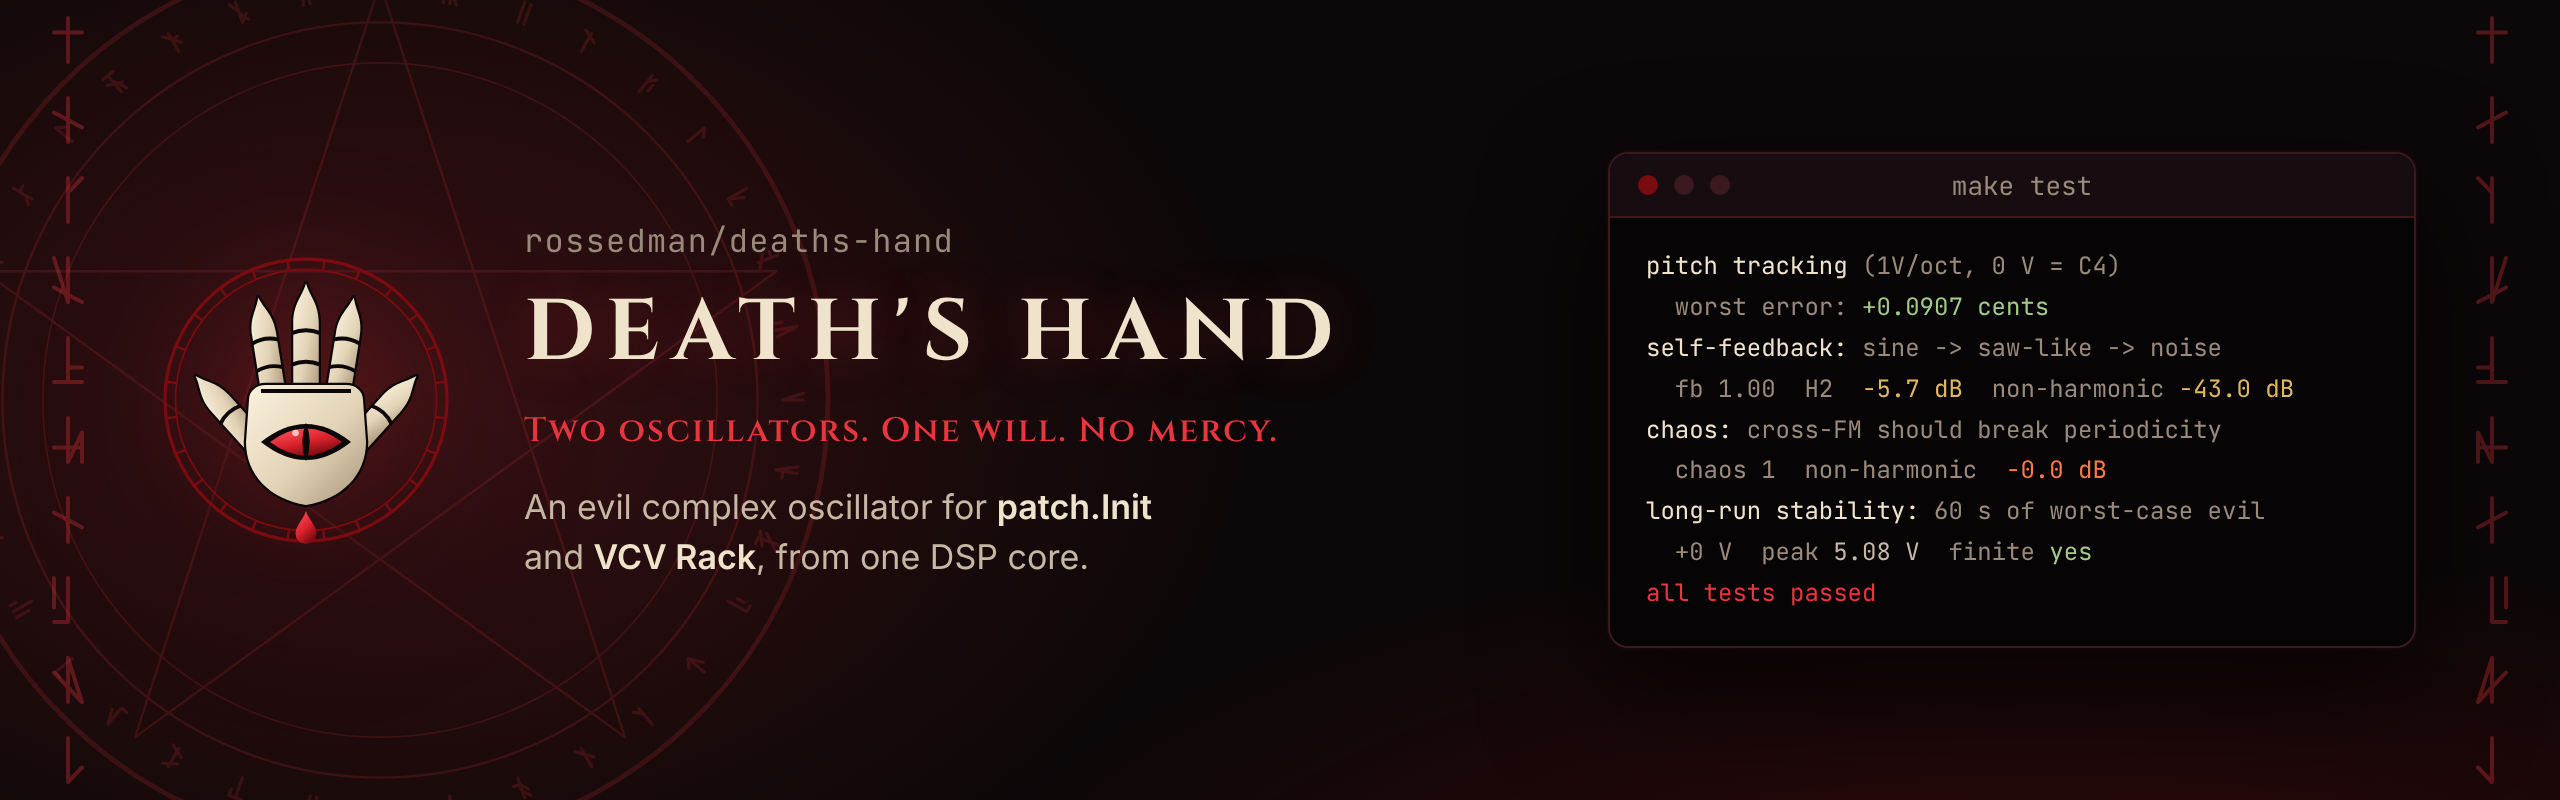
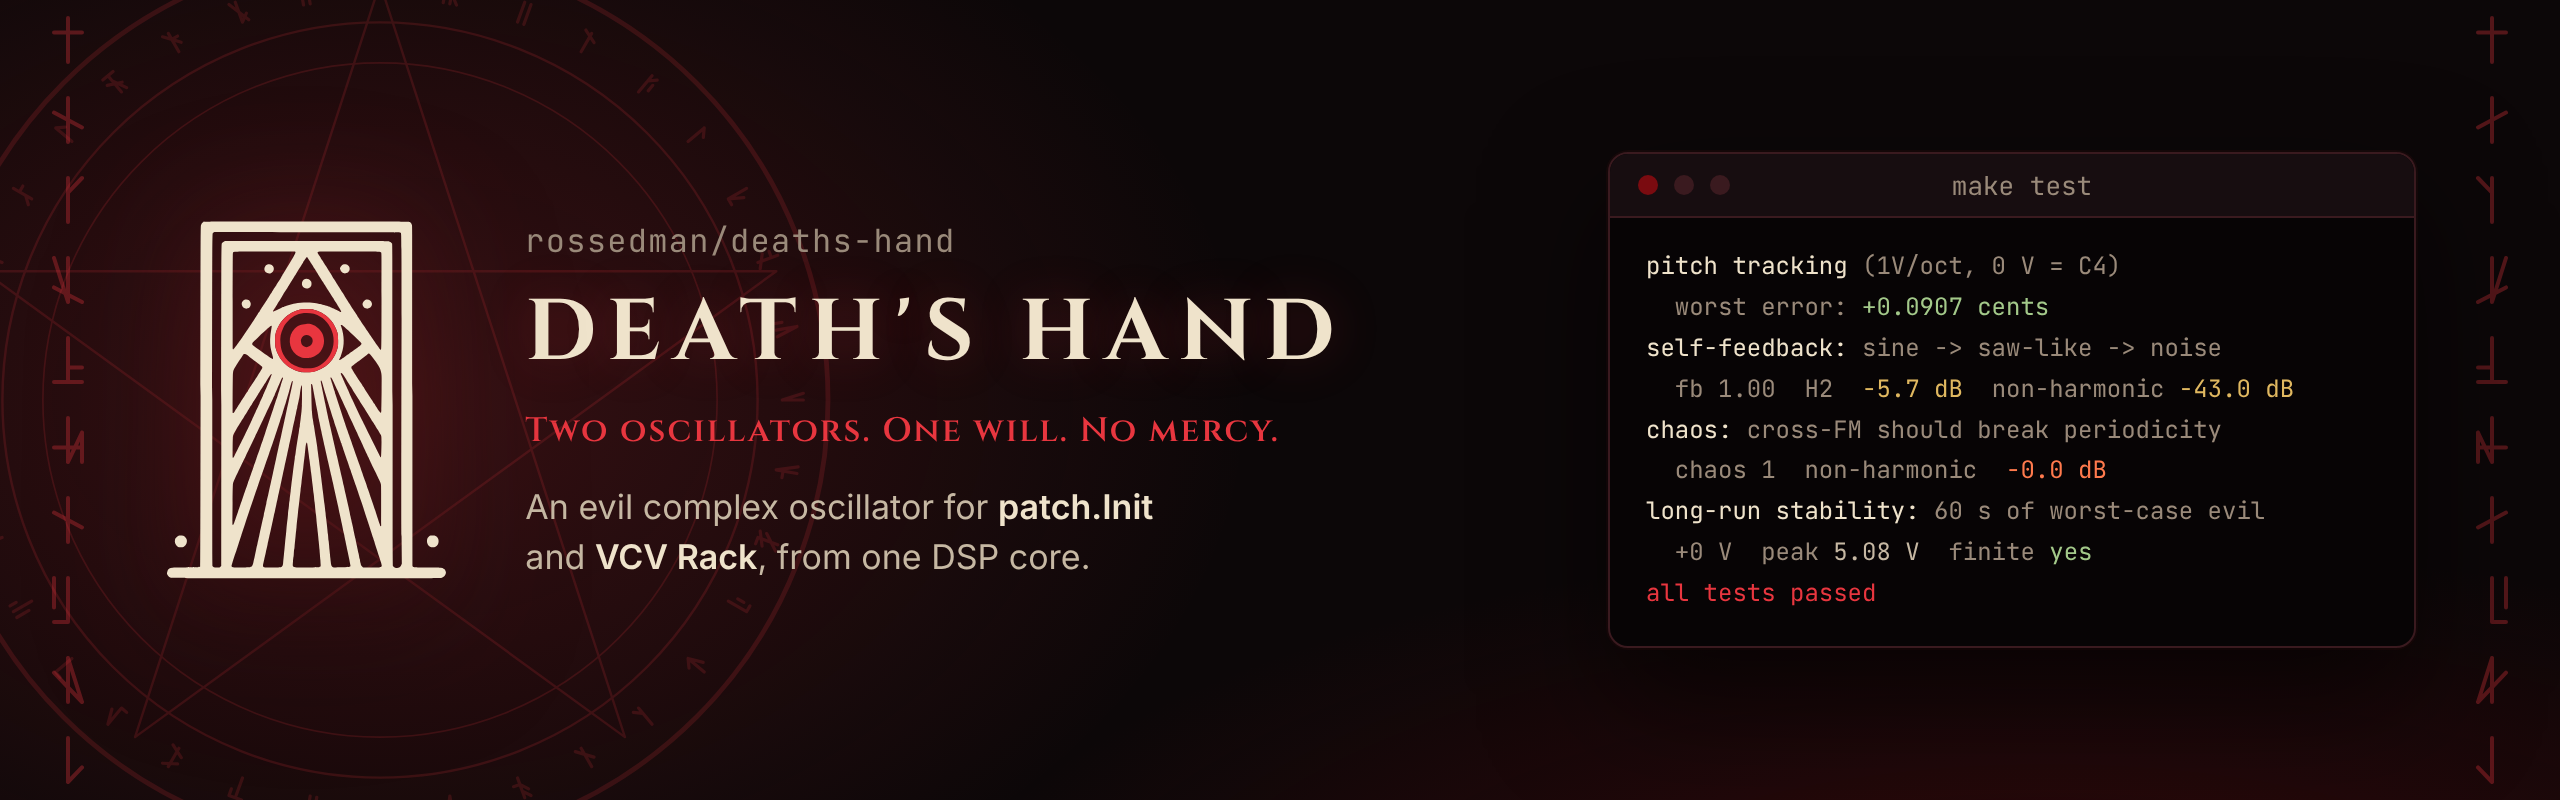
feat: rebrand to the Portal mark
Replace the hand with the Portal doorway mark everywhere it appears:
the site logo, favicon and header, the landing page, the README banner,
the social card and the module panel.

- docs/assets/site/logo.svg is the original artwork traced to SVG
  (potrace at 3x; 98.8% pixel overlap with the source), recoloured to
  the palette: bone line work, blood-red eye.
- docs/assets/site/favicon.svg is a hand-drawn simplification (door,
  base, triangle and eye with a dark outline) that stays legible at
  16 px on dark and light tabs; the site header uses it too.
- The panel reads the mark from logo.svg, so the module and the site
  share one source; panel-check mirrors that layout.

Claude-Session: https://claude.ai/code/session_019bjhyBVt8RvJXeHgmiiuiY

diff --git a/docs/assets/site/landing.css b/docs/assets/site/landing.css
@@ -387,7 +387,7 @@
   mask-image: radial-gradient(ellipse 60% 70% at 50% 45%, #000 15%, transparent 70%);
   -webkit-mask-image: radial-gradient(ellipse 60% 70% at 50% 45%, #000 15%, transparent 70%);
 }
-.lp-final__logo { width: 4.2rem; height: 4.2rem; margin-bottom: 1rem; animation: lp-float 6s ease-in-out infinite; }
+.lp-final__logo { width: auto; height: 5.5rem; margin-bottom: 1rem; animation: lp-float 6s ease-in-out infinite; }
 
 /* The occult layer: engraved capitals, rune columns, the summoning circle. */
 .md-header__title, .lp-title, .lp h2, .lp-panel h3, .lp-pillar h3, .lp-card h3, .lp-steps h4, .lp-doc b,
@@ -417,7 +417,7 @@
 }
 .lp-final .lp-sigil { left: 50%; top: 50%; width: 36rem; height: 36rem; margin: -18rem 0 0 -18rem; }
 .lp-hero__logo, .lp-final__logo { filter: drop-shadow(0 0 22px color-mix(in srgb, var(--brand) 40%, transparent)) drop-shadow(0 14px 24px rgba(0, 0, 0, 0.55)); }
-.lp-hero__logo { width: 6rem; height: 6rem; }
+.lp-hero__logo { width: auto; height: 7.5rem; }
 .lp-term__bar i:first-child { background: var(--brand-3); }
 
 /* The panel and its sigil decoder. */

diff --git a/docs/assets/src/social-preview.html b/docs/assets/src/social-preview.html
@@ -9,7 +9,7 @@
   }
   .sigil { width: 600px; height: 600px; left: 340px; top: -40px; opacity: 0.14; }
   .wrap { position: absolute; inset: 0; display: flex; flex-direction: column; align-items: center; justify-content: center; text-align: center; }
-  .logo { width: 230px; height: 230px; filter: drop-shadow(0 0 34px rgba(232,54,63,0.4)) drop-shadow(0 20px 34px rgba(0,0,0,0.6)); }
+  .logo { width: auto; height: 270px; filter: drop-shadow(0 0 34px rgba(232,54,63,0.4)) drop-shadow(0 20px 34px rgba(0,0,0,0.6)); }
   h1 { margin-top: 26px; font-size: 76px; line-height: 1; color: var(--cream); text-shadow: 0 0 30px rgba(232,54,63,0.3); }
   .promise { margin-top: 18px; font-family: Cinzel, serif; font-size: 28px; font-weight: 600; letter-spacing: 0.1em; color: var(--brand); }
   .sub { margin-top: 16px; font-size: 21px; color: var(--mist); }

diff --git a/docs/assets/src/banner.html b/docs/assets/src/banner.html
@@ -9,7 +9,7 @@
   }
   .sigil { width: 480px; height: 480px; left: -50px; top: -40px; }
   .wrap { position: absolute; inset: 0; display: flex; align-items: center; padding: 0 72px 0 78px; gap: 34px; }
-  .logo { width: 150px; height: 150px; flex: none; filter: drop-shadow(0 0 28px rgba(232,54,63,0.35)) drop-shadow(0 18px 30px rgba(0,0,0,0.6)); }
+  .logo { width: auto; height: 190px; flex: none; filter: drop-shadow(0 0 28px rgba(232,54,63,0.35)) drop-shadow(0 18px 30px rgba(0,0,0,0.6)); }
   .text { flex: 1; min-width: 0; }
   .kicker { font-size: 16px; color: var(--dim); margin-bottom: 14px; letter-spacing: 0.04em; }
   h1 { font-size: 43px; line-height: 1; white-space: nowrap; color: var(--cream); text-shadow: 0 0 24px rgba(232,54,63,0.25); }

diff --git a/vcv/res/make_panel.py b/vcv/res/make_panel.py
@@ -12,6 +12,7 @@ a physical front panel.
 
 import math
 import random
+import re
 from pathlib import Path
 
 from matplotlib.font_manager import FontProperties
@@ -358,29 +359,23 @@ def drips(x0, x1, y, rng, keep_clear=()):
     return out
 
 
-# The project's mark (docs/assets/site/favicon.svg): a clawed hand with an eye
-# in its palm. Geometry is in the logo's 200-unit box, centred on (100, 100).
-HAND_FINGERS = [  # (rotation, pivot x, pivot y, path)
-    (-9, 79, 100, "M71,100 L71,55.6 C71,43.6 76.2,39.6 79,30.8 C81.8,39.6 87,43.6 87,55.6 L87,100 Z"),
-    (0, 100, 100, "M91.5,100 L91.5,48.7 C91.5,35.95 97.03,31.7 100,22.35 C102.97,31.7 108.5,35.95 108.5,48.7 L108.5,100 Z"),
-    (9, 121, 100, "M113,100 L113,55.6 C113,43.6 118.2,39.6 121,30.8 C123.8,39.6 129,43.6 129,55.6 L129,100 Z"),
-    (-42, 66, 128, "M58,128 L58,93.6 C58,81.6 63.2,77.6 66,68.8 C68.8,77.6 74,81.6 74,93.6 L74,128 Z"),
-    (42, 134, 128, "M126,128 L126,93.6 C126,81.6 131.2,77.6 134,68.8 C136.8,77.6 142,81.6 142,93.6 L142,128 Z"),
-]
-HAND_PALM = "M62,100 C62,94 67,90 73,90 L127,90 C133,90 138,94 138,100 L140,128 C140,150 124,166 100,170 C76,166 60,150 60,128 Z"
+# The project's mark: the Portal doorway with an eye, read from the site's logo
+# (docs/assets/site/logo.svg) so the panel and the site can't drift apart.
+LOGO = Path(__file__).resolve().parents[2] / "docs" / "assets" / "site" / "logo.svg"
 
 
-def hand_mark(cx, cy, size):
-    """The mark, `size` mm tall, as a faint relief: dried-blood outline, red eye."""
-    k = size / 150.0
-    out = [f'<g transform="translate({f(cx - 100 * k)} {f(cy - 96 * k)}) scale({k:.5f})">']
-    body = "".join(f'<path transform="rotate({a} {px} {py})" d="{d}"/>' for a, px, py, d in HAND_FINGERS) + f'<path d="{HAND_PALM}"/>'
-    out.append(f'<g fill="{BLOOD_DARK}" stroke="{BLOOD}" stroke-width="3" stroke-linejoin="round">{body}</g>')
-    out.append(f'<g fill="{BLOOD_DARK}">{body}</g>')  # hide the strokes where shapes overlap
-    out.append(f'<path d="M76,128 Q100,110 124,128 Q100,146 76,128 Z" fill="{BLOOD_HI}"/>')
-    out.append(f'<path d="M100,115 Q105,128 100,141 Q95,128 100,115 Z" fill="{BG}"/>')
-    out.append("</g>")
-    return out
+def portal_mark(cx, cy, height, logo=None):
+    """The mark, `height` mm tall and centred on (cx, cy), in dried blood with a red eye."""
+    text = Path(logo or LOGO).read_text()
+    _, _, w, h = (float(v) for v in re.search(r'viewBox="([^"]+)"', text).group(1).split())
+    lines, eye = re.findall(r' d="([^"]+)"', text)[:2]
+    k = height / h
+    return [
+        f'<g transform="translate({f(cx - w * k / 2)} {f(cy - height / 2)}) scale({k:.5f})">',
+        f'<path fill="{BLOOD}" fill-rule="evenodd" d="{lines}"/>',
+        f'<path fill="{BLOOD_HI}" fill-rule="evenodd" d="{eye}"/>',
+        "</g>",
+    ]
 
 
 # ----------------------------------------------------------------- panel
@@ -414,7 +409,7 @@ def svg():
         out.append(poly([(x, 79.3), (x + 0.5, 80), (x, 80.7), (x - 0.5, 80), (x, 79.3)], color=BLOOD, w=0.2))
 
     # The mark, in the space left of the altar.
-    out += hand_mark((COLS[0] + COLS[1]) / 2, 116.5, 15.0)
+    out += portal_mark((COLS[0] + COLS[1]) / 2, 116.5, 17.0)
 
     # Output altar.
     ax0, ax1 = COLS[2] - 7.5, COLS[3] + 7.5

diff --git a/docs/panel.md b/docs/panel.md
@@ -1,7 +1,7 @@
 # Reading the panel
 
 <figure class="diagram" markdown>
-![The Death's Hand panel: pitch and the three macro knobs on top under their sigils, four settings knobs below, the ratio-lock key and routing knob, eight inputs, the hand mark, and the two outputs on a red altar, all over a faint summoning circle.](assets/panel.png){ width="360" }
+![The Death's Hand panel: pitch and the three macro knobs on top under their sigils, four settings knobs below, the ratio-lock key and routing knob, eight inputs, the Portal mark, and the two outputs on a red altar, all over a faint summoning circle.](assets/panel.png){ width="360" }
 </figure>
 
 There are no words on the panel, only sigils. The top row is the voice: pitch and the three character macros. Below them are the settings the patch.Init keeps on its shift layer. Each sigil repeats on the jack that modulates it, so the panel reads in columns.
@@ -23,7 +23,7 @@ There are no words on the panel, only sigils. The top row is the voice: pitch an
 | Blood drop (solid) | Primary out |
 | Blood drop with rings | Modulator out |
 
-Bone rings mark inputs, red rings mark outputs, and the outputs sit on the altar. The hand, the edge runes and the summoning circle are decoration.
+Bone rings mark inputs, red rings mark outputs, and the outputs sit on the altar. The Portal mark, the edge runes and the summoning circle are decoration.
 
 ## The macros
 

diff --git a/CHANGELOG.md b/CHANGELOG.md
@@ -2,6 +2,12 @@
 
 All notable changes to this project are documented here. The format follows [Keep a Changelog](https://keepachangelog.com/en/1.1.0/), and versions follow [Semantic Versioning](https://semver.org/).
 
+## Unreleased
+
+### Changed
+
+- New mark: the Portal doorway with an eye, traced to SVG from the original artwork, in bone with a blood-red eye. A simplified version (door, triangle and eye) is the favicon and site header logo, where the full mark's rays would blur. The mark replaces the hand on the site, the banner, the social card and the module panel.
+
 ## 0.1.1
 
 ### Fixed

diff --git a/README.md b/README.md
@@ -69,7 +69,7 @@ the panel reads in columns.
 | Blood drop with rings | Modulator out |
 
 Bone rings mark inputs, red rings mark outputs, and the outputs sit on the
-altar. The hand, the edge runes and the summoning circle are decoration.
+altar. The Portal mark, the edge runes and the summoning circle are decoration.
 
 ## The macros
 
